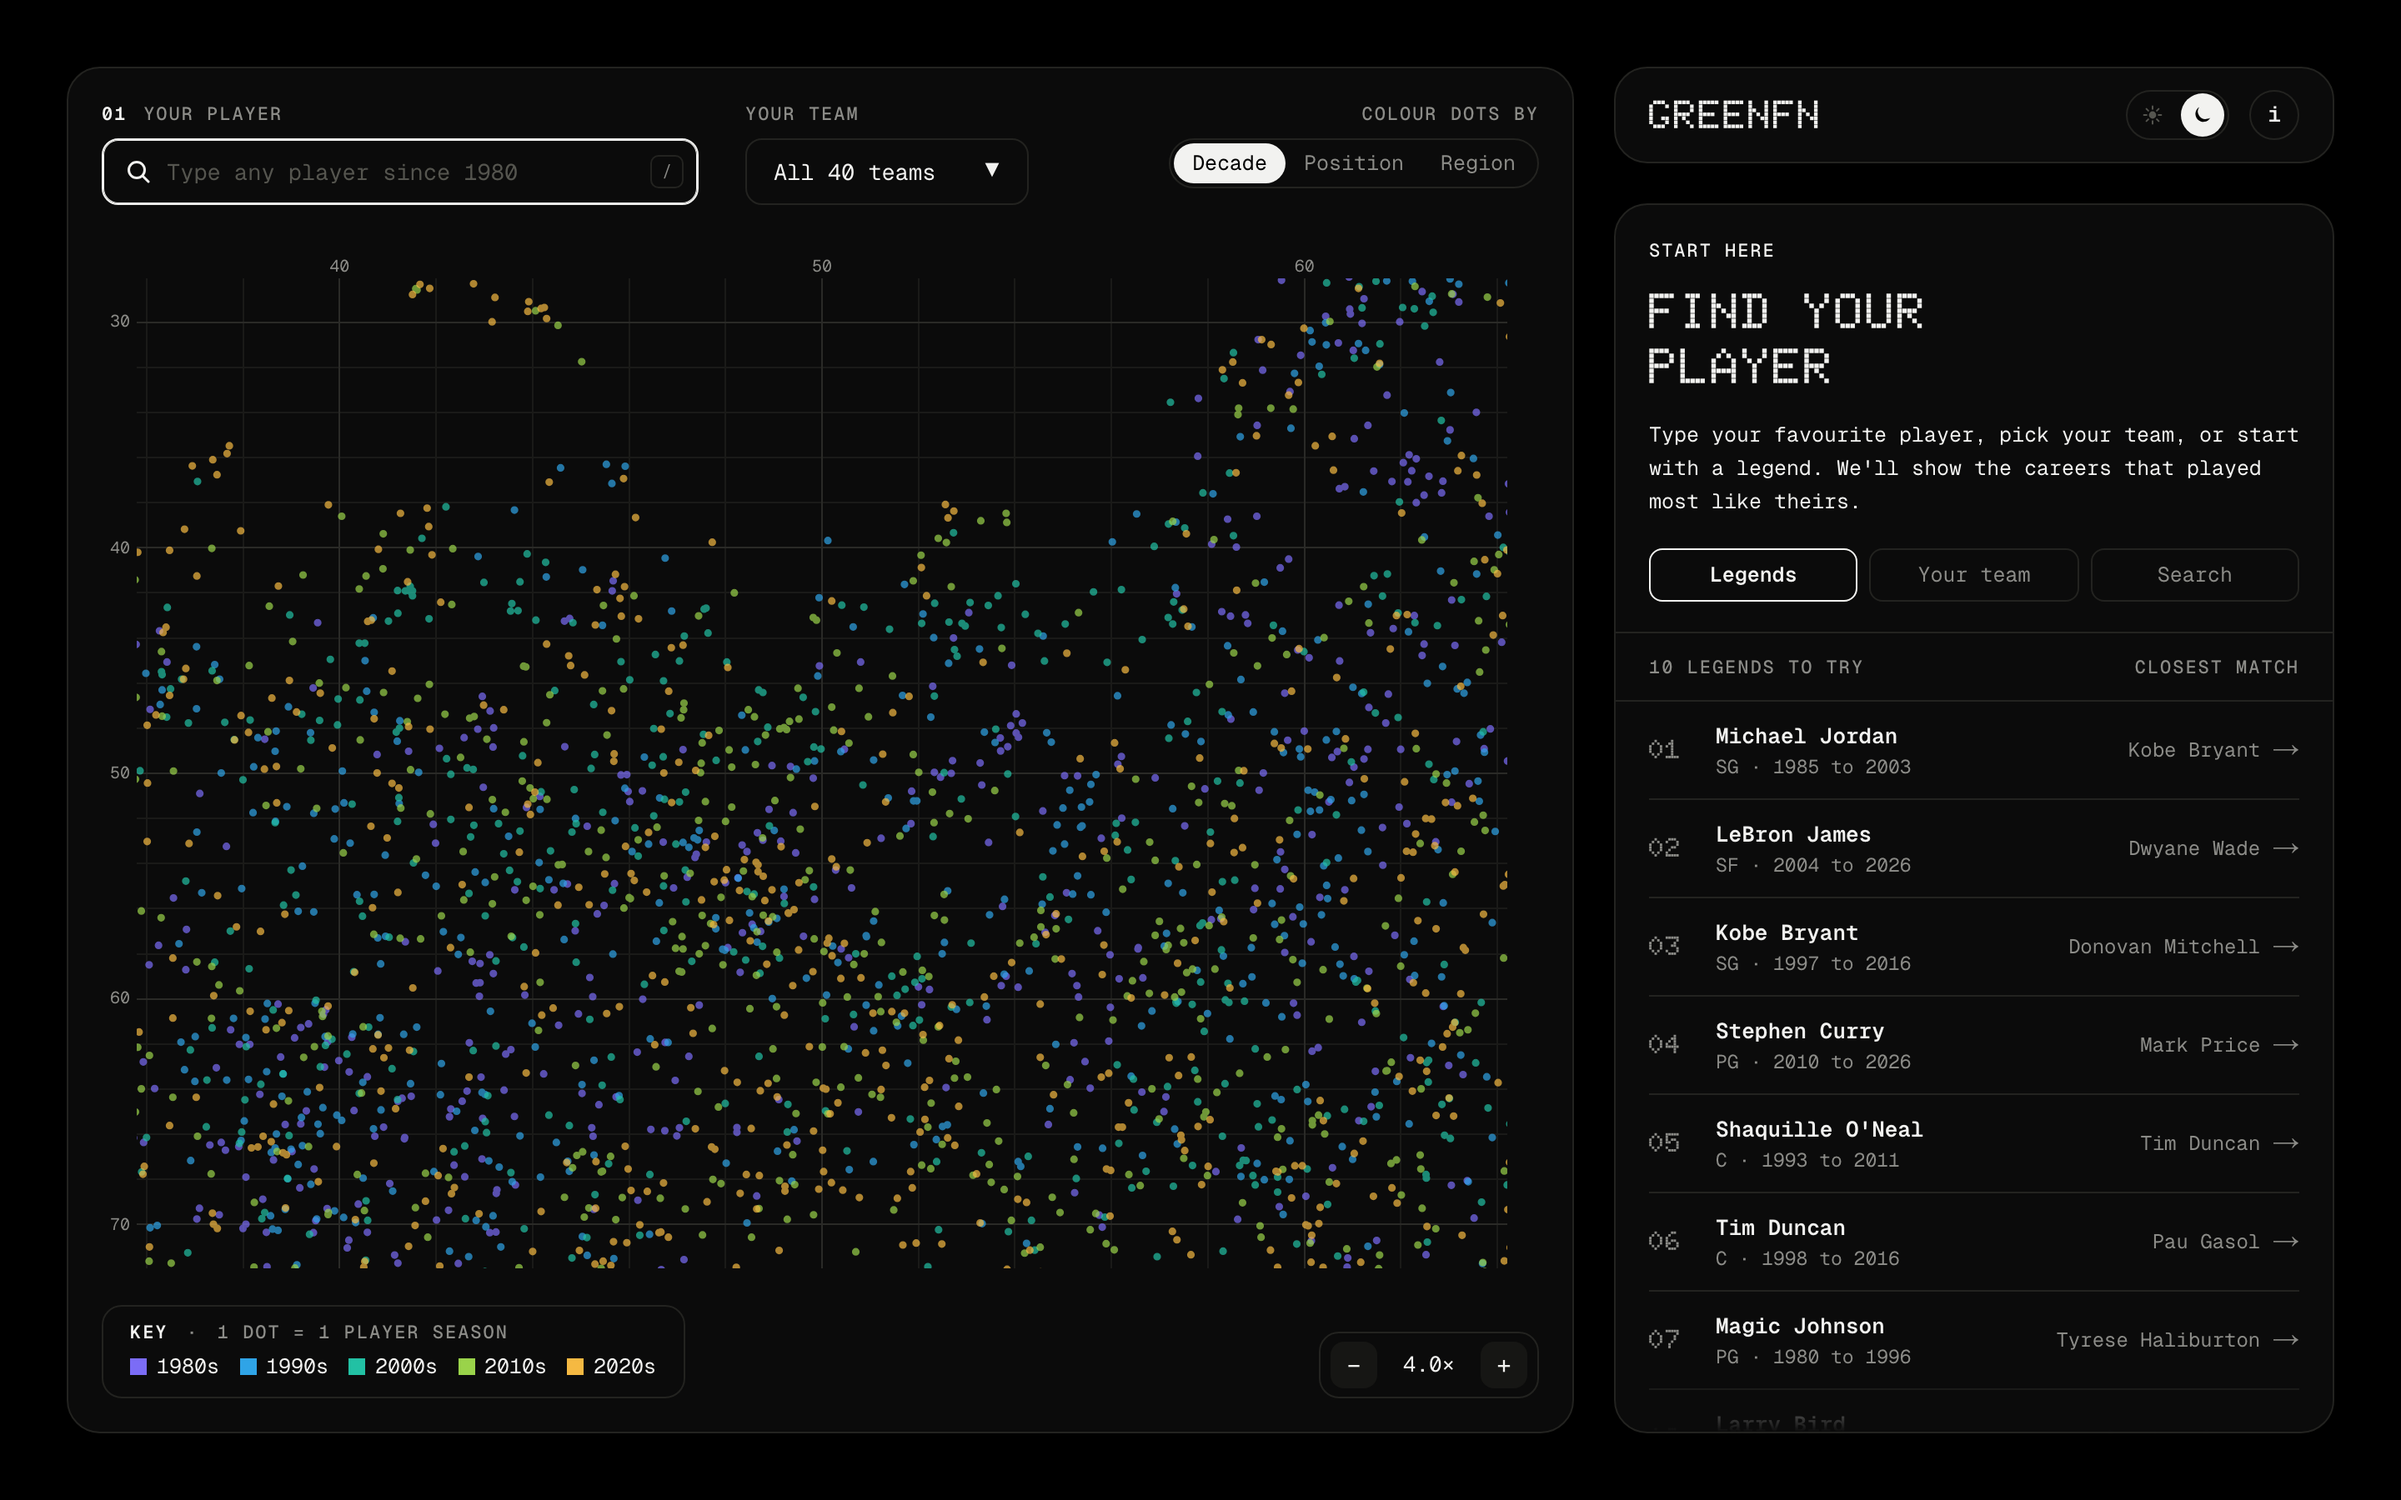
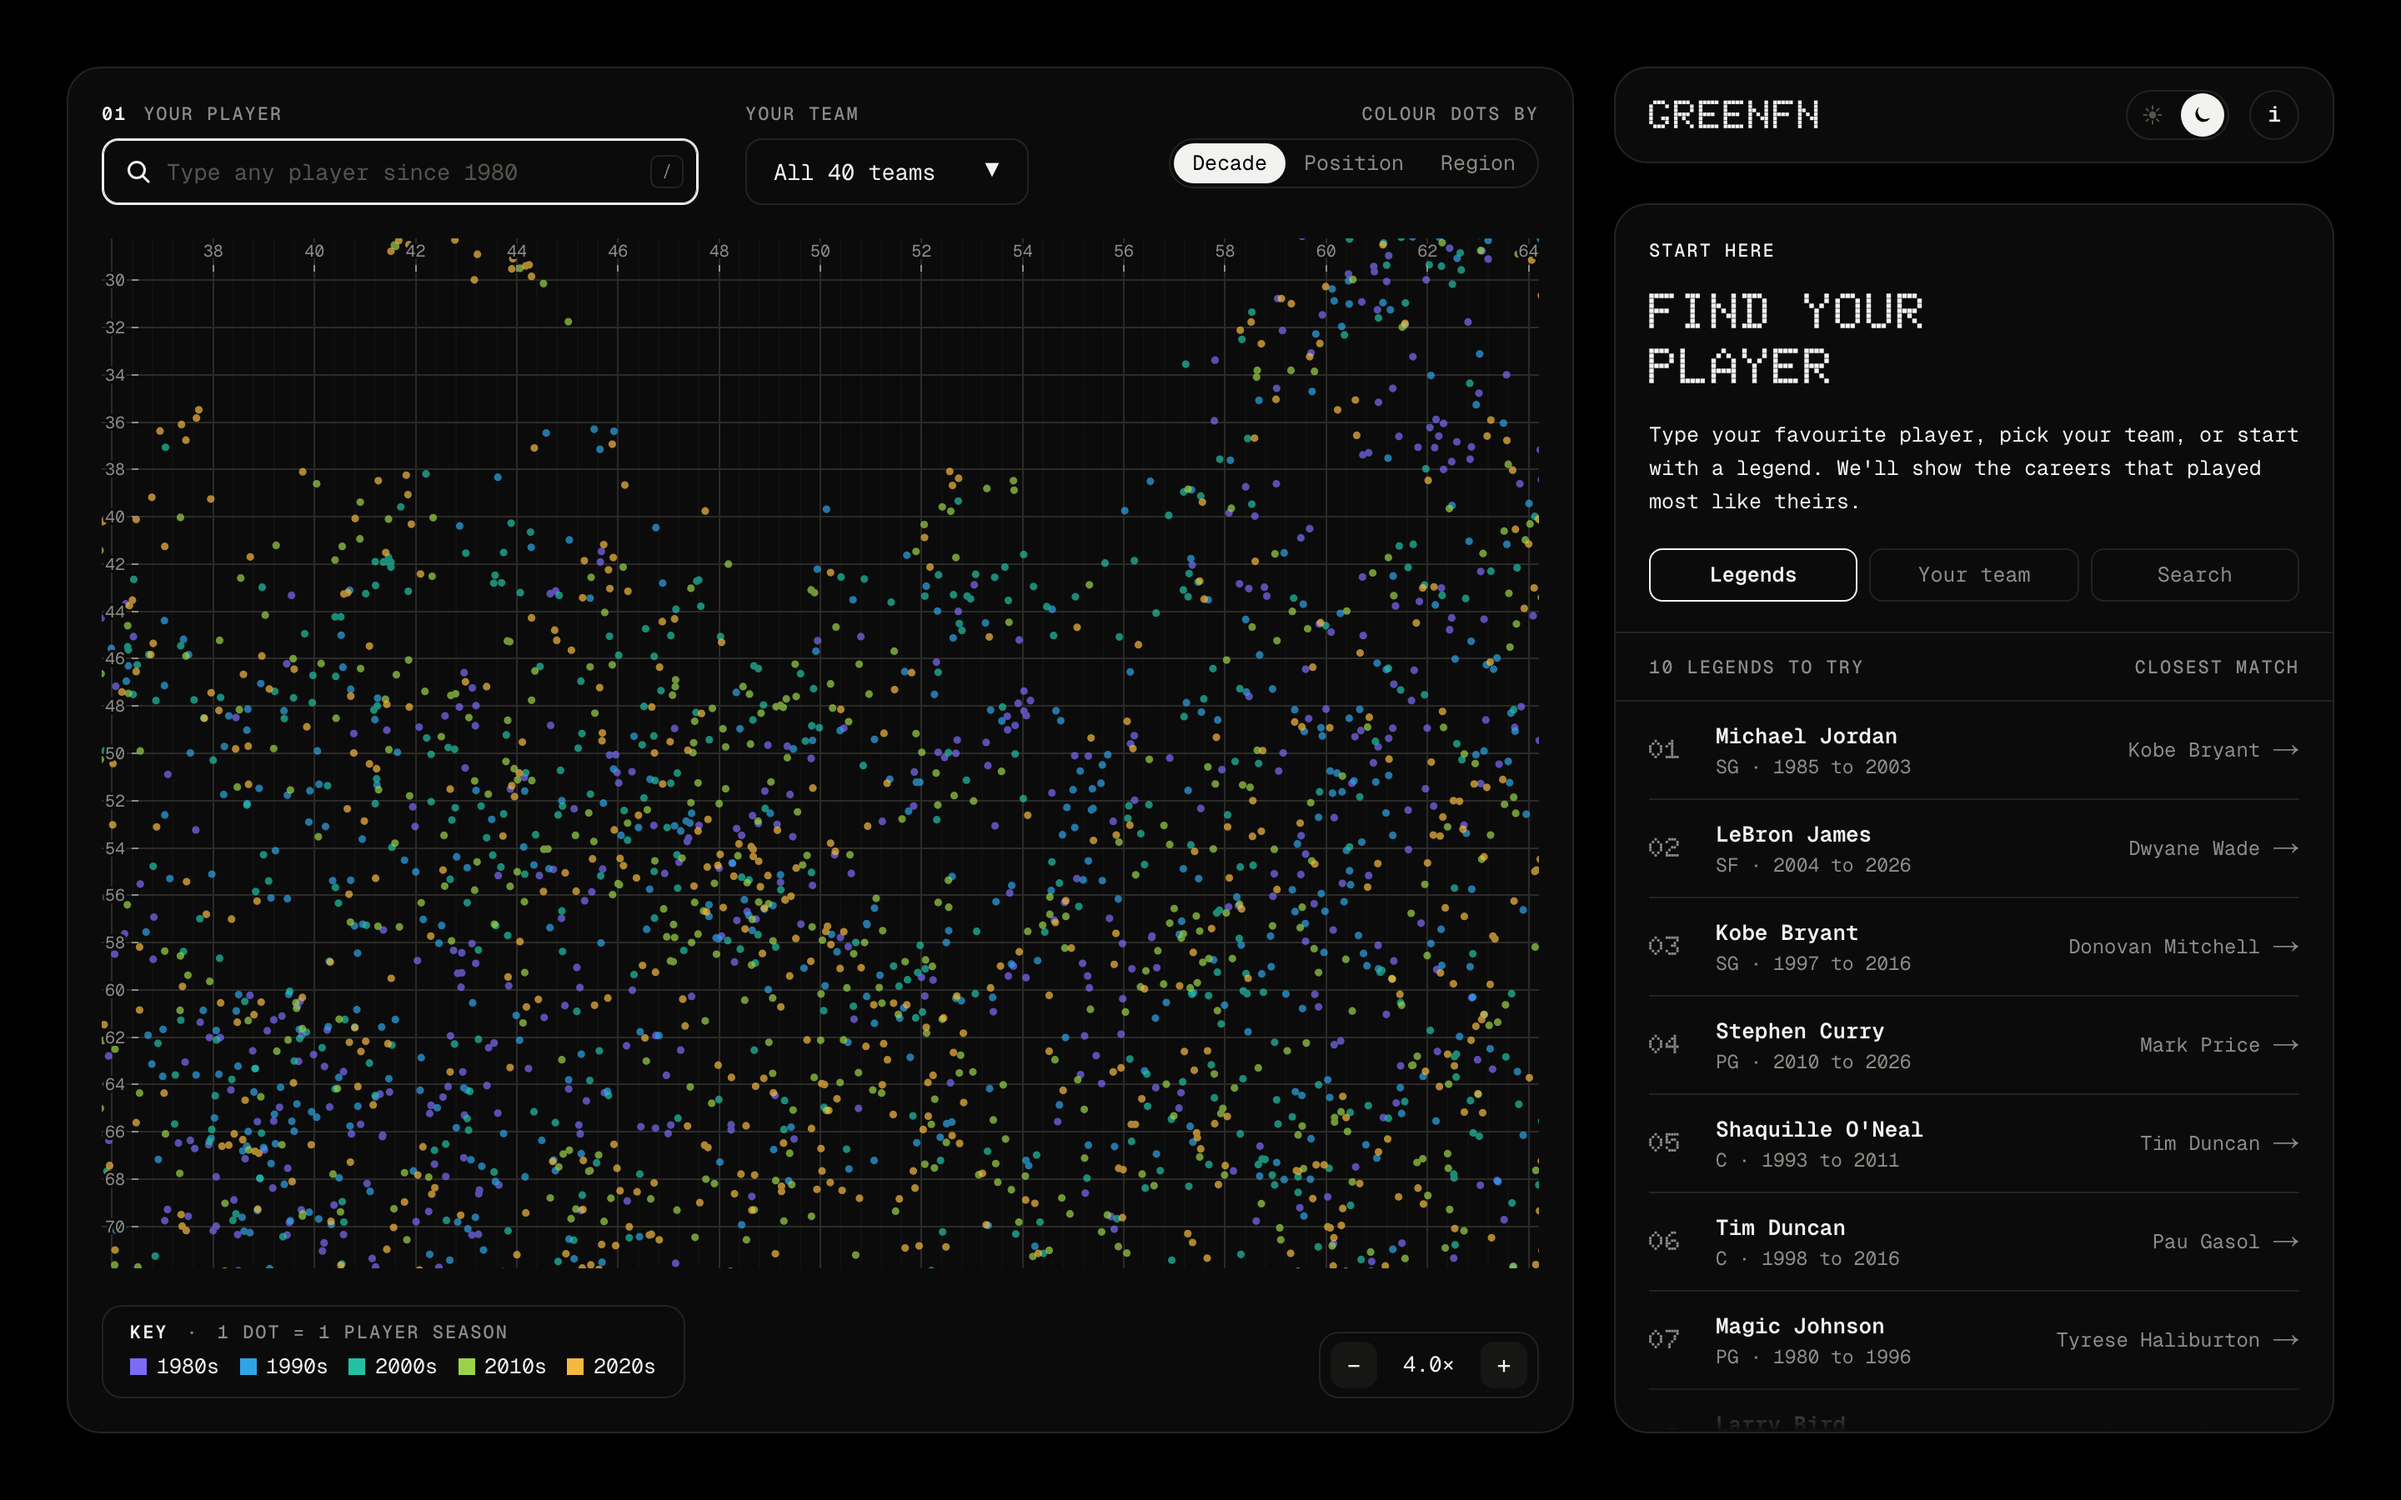
Phase 7e: grid label checks and screenshots
scripts/check-grid-labels.mjs: at 1x, 4x (centre and dragged to the corners) and 8x, every number is within 1 px of its line and within 12 px of the grid edge or the map area's edge, with no overlaps (15 of 15). It found two fixes, included here: a row of numbers shows only while its lines are in view (zoomed in and panned past the frame the grid can be entirely off screen), and the number box is 14 px so stuck numbers never poke above the area. 51 tests pass, parity unchanged, build passes, Lighthouse accessibility 100. Fresh 1x and 4x grid screenshots in both themes.

Changed region(s): [[0.0312, 0.1556, 0.6562, 0.84], [0.1562, 0.1556, 0.25, 0.2178]]

diff --git a/web/src/lib/grid.ts b/web/src/lib/grid.ts
@@ -78,8 +78,8 @@ export function computeGrid(t: Transform, box: Box, w: number, h: number): Grid 
   };
 }
 
-// Number layout (10 px Geist Mono: 6 px per character, about 12 px tall).
-export const LABEL = { charW: 6, h: 12, gapTop: 6, gapLeft: 8, tick: 4 };
+// Number layout (10 px Geist Mono: 6 px per character; the text box measures 13 px tall, so 14 with a margin).
+export const LABEL = { charW: 6, h: 14, gapTop: 6, gapLeft: 8, tick: 4 };
 
 export type Label = { v: number; text: string; x: number; y: number; tick: [number, number, number, number] };
 
@@ -87,7 +87,9 @@ export type Label = { v: number; text: string; x: number; y: number; tick: [numb
  * Numbers for every major line in view. Across numbers sit 6 px above the grid's top edge, down numbers 8 px left
  * of its left edge, each centred on its own line with a 4 px tick from the edge towards the number. When the edge
  * is off screen they stick to the visible top / left of the map area with the same gaps. If two numbers would
- * collide, every other one is skipped. Positions: across = (centre x, bottom y); down = (right x, centre y).
+ * collide, every other one is skipped. A row of numbers is shown only while its lines are in view (zoomed in and
+ * panned past the frame, the grid can be entirely off screen). Positions: across = (centre x, bottom y);
+ * down = (right x, centre y).
  */
 export function layoutLabels(g: Grid, w: number, h: number): { across: Label[]; down: Label[]; top: number; left: number } {
   const text = (v: number) => v.toFixed(g.decimals);
@@ -103,8 +105,11 @@ export function layoutLabels(g: Grid, w: number, h: number): { across: Label[]; 
     while (min * s < need && s < 8) s *= 2;
     return s;
   };
-  const xsIn = majorsX.filter((l) => l.px >= left - 0.5 && l.px <= w);
-  const ysIn = majorsY.filter((l) => l.px >= top - 0.5 && l.px <= h);
+  // Vertical lines run from the grid's top to its bottom: the across row needs them in view below the numbers.
+  const acrossInView = g.span.y1 >= top && top <= h;
+  const downInView = g.span.x1 >= left && left <= w;
+  const xsIn = acrossInView ? majorsX.filter((l) => l.px >= left - 0.5 && l.px <= w) : [];
+  const ysIn = downInView ? majorsY.filter((l) => l.px >= top - 0.5 && l.px <= h) : [];
   const sx = stride(xsIn.slice(1).map((l, i) => l.px - xsIn[i].px), Math.max(...xsIn.map((l) => text(l.v).length), 1) * LABEL.charW + 6);
   const sy = stride(ysIn.slice(1).map((l, i) => l.px - ysIn[i].px), LABEL.h + 2);
   const keep = (l: GridLine, s: number) => Math.round(l.v / g.major) % s === 0;

diff --git a/web/src/lib/grid.test.ts b/web/src/lib/grid.test.ts
@@ -65,6 +65,15 @@ describe("map grid", () => {
     expect(lab.across.every((l) => l.x >= lab.left - 0.5 && l.x <= W)).toBe(true);
   });
 
+  it("shows no numbers for a grid that is entirely off screen", () => {
+    // Panned down so far that the grid's top edge is below the plot.
+    const g = computeGrid({ k: 4, x: 200, y: 150 }, box, W, H);
+    expect(g.span.y0).toBeGreaterThan(H);
+    const lab = layoutLabels(g, W, H);
+    expect(lab.across).toEqual([]);
+    expect(lab.down).toEqual([]);
+  });
+
   it("skips every other number rather than let two overlap", () => {
     // Squash the across axis so 10-unit lines are only 20 px apart.
     const g = computeGrid({ k: 1, x: 0, y: 0 }, { minX: 0, maxX: 200, minY: 0, maxY: 900 }, 300, 1000);
